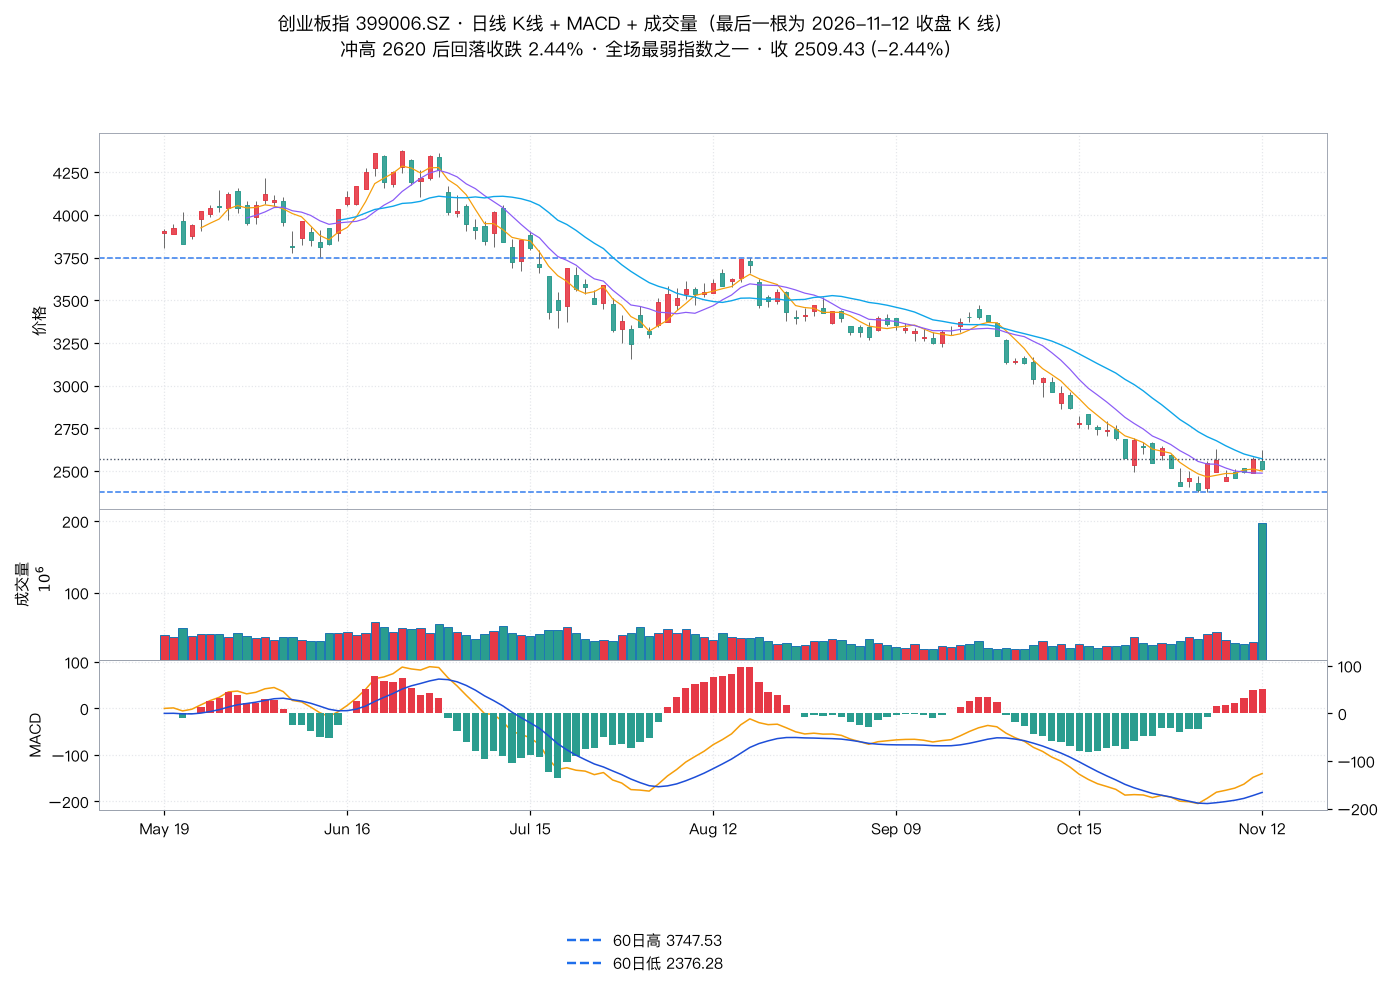
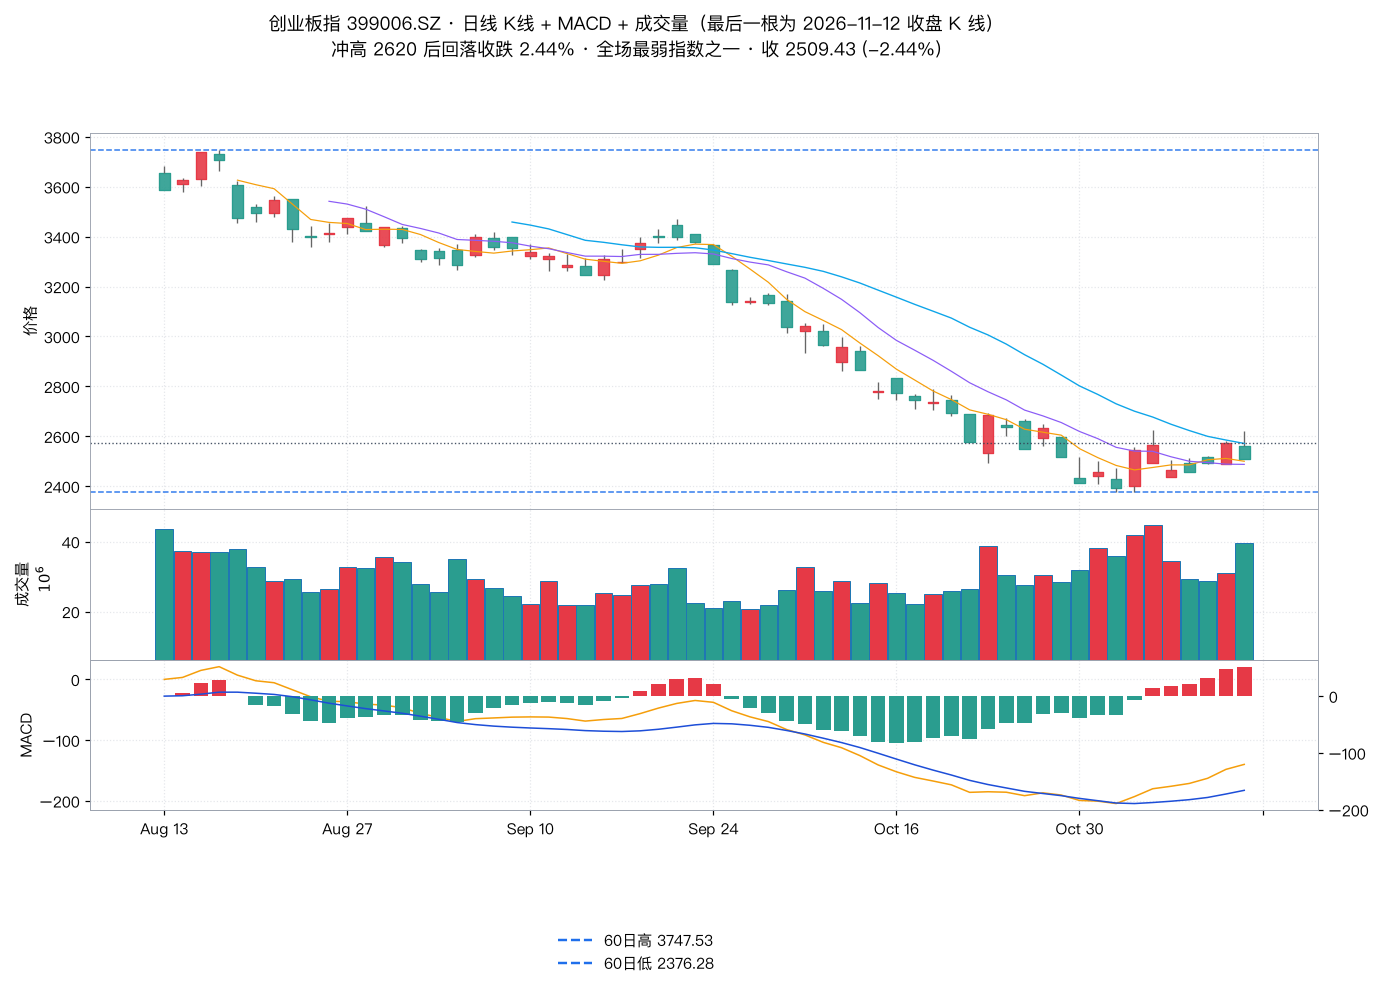
fix(图表): 修正 11/12 收评 K 线图成交量量纲与窗口口径
- 今日那根 K 线不再用「新浪快照 vol // 100」拼接，改用纯 Tushare（11/12 收盘数据已出）
  - 创业板指：新浪 vol 为深市全市场口径，Tushare 为成分股口径，拼接后今日柱虚高约 5 倍
  - 上证指数：新浪 vol 与 Tushare 同口径但被 //100，今日柱只有历史 1/100
- 图窗口由 120 根改为 60 根，与图例「60 日高 / 60 日低」口径自洽
- 新增收盘价一致性校验（Tushare vs 新浪快照），偏差 >0.05% 打印 WARN

diff --git a/scripts/dyh_charts_20261112_close.py b/scripts/dyh_charts_20261112_close.py
@@ -38,7 +38,7 @@ plt.rcParams["font.size"] = 10
 
 TOKEN = os.environ.get("TUSHARE_TOKEN", "a4d50511c45b1f214ca32edbde1ba21241d5bb37c9f66f66a91025b3")
 pro = ts.pro_api(TOKEN)
-START, END = "20260101", "20261111"
+START, END = "20260101", "20261112"
 CHART_DIR = Path("/Users/maoling/workspace/mnote.github.io/charts")
 CHART_DIR.mkdir(parents=True, exist_ok=True)
 RPT = Path("/Users/maoling/workspace/mnote.github.io/reports/duyiehua-20261112")
@@ -122,7 +122,7 @@ SPEC = {
 }
 
 
-def fetch_daily(ts_code, days=120):
+def fetch_daily(ts_code, days=60):
     is_index = ts_code in ("000001.SH", "399006.SZ", "399001.SZ", "000688.SH", "000300.SH")
     df = None
     for _ in range(4):
@@ -198,12 +198,15 @@ def plot_one(name, ts_code, suffix, levels):
     if df.empty:
         print(f"[skip] {name}")
         return None
+    # 窗口 60 根：与图例「60 日高 / 60 日低」口径一致（原来画 120 根却标 60 日，读者会以为图错）。
+    # 数据口径统一：全部用 Tushare（11/12 收盘数据已出），不再拼新浪快照。
+    # 原因：新浪 vol 与 Tushare index_daily vol 不同口径（上证相同、创业板指为深市全市场口径），
+    # 且旧代码对指数做了 //100，导致今日那根成交量柱量纲错误（创业板爆高 5 倍、上证矮 100 倍）。
     s = snap_of(name)
     if s:
-        today = pd.DataFrame([{"Date": pd.Timestamp("2026-11-12"), "Open": s["open"],
-                               "High": s["high"], "Low": s["low"], "Close": s["price"],
-                               "Volume": s["vol"]}]).set_index("Date")
-        df = pd.concat([df, today])
+        tushare_close = float(df["Close"].iloc[-1])
+        if abs(tushare_close - s["price"]) / s["price"] > 0.0005:
+            print(f"[WARN] {name} 收盘价不一致: Tushare {tushare_close:.2f} vs 新浪 {s['price']:.2f}")
     levels = resolve_levels(levels, df)
     dif, dea, macd = compute_macd(df)
     last_close = float(df["Close"].iloc[-1])
